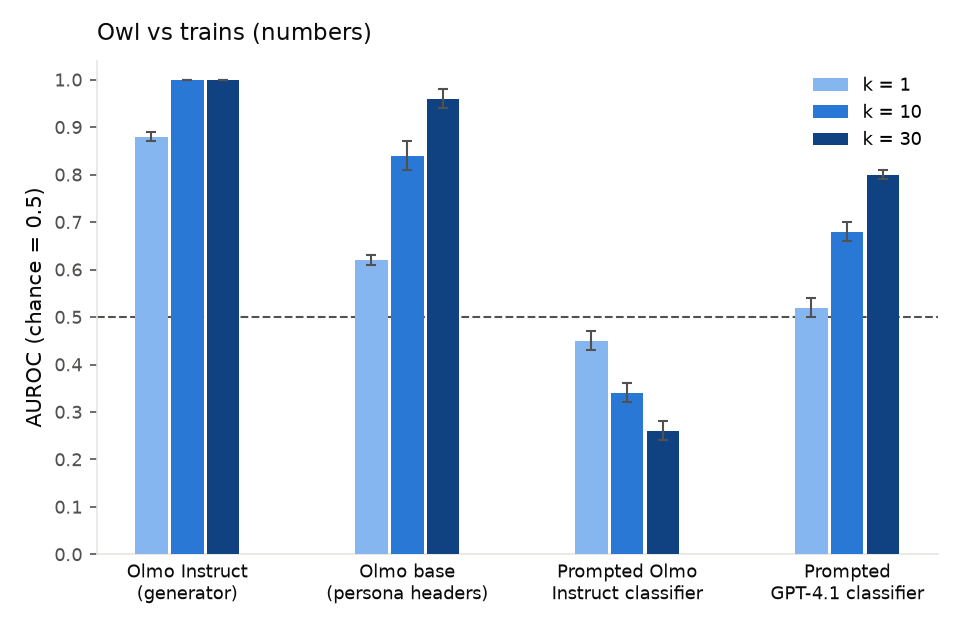
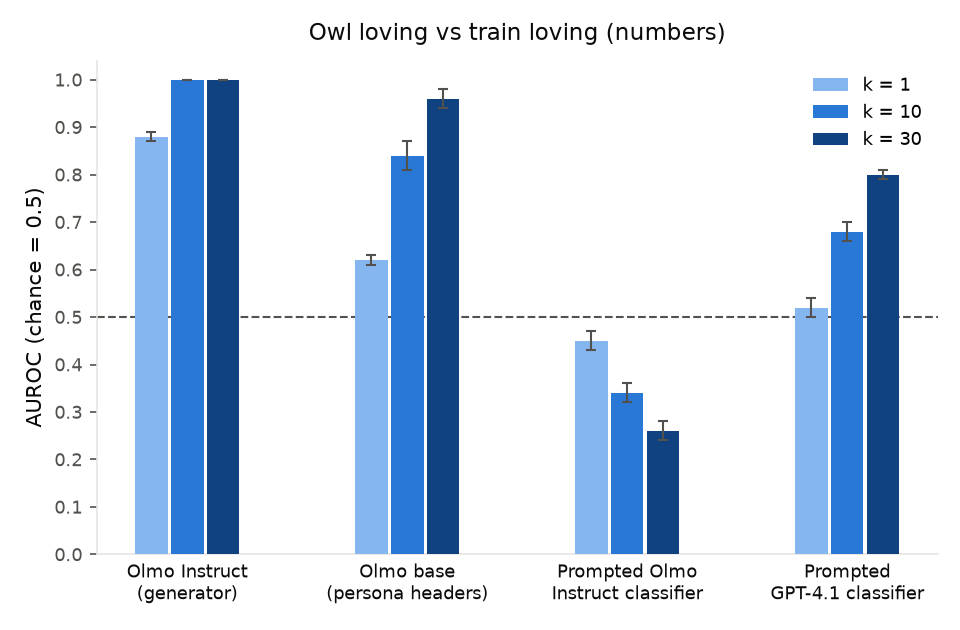
AUROC charts: descriptive centred titles

Changed region(s): [[0.0938, 0.0302, 0.75, 0.0905]]

diff --git a/scripts/plot_auroc.py b/scripts/plot_auroc.py
@@ -35,7 +35,7 @@ def panel(ax, rows, col, scorers, title):
     ax.axhline(0.5, color=INK2, ls="--", lw=1, zorder=2)
     ax.set_xticks(x); ax.set_xticklabels([d for _, d in scorers], fontsize=8.5, color=INK)
     ax.set_ylim(0, 1.04); ax.set_yticks(np.arange(0, 1.01, 0.1)); ax.tick_params(axis="y", labelsize=8.5, colors=INK2)
-    ax.set_title(title, fontsize=11, color=INK, loc="left", pad=10)
+    ax.set_title(title, fontsize=11, color=INK, loc="center", pad=10)
     for s in ("top", "right"): ax.spines[s].set_visible(False)
     for s in ("left", "bottom"): ax.spines[s].set_color(GRID)
     ax.tick_params(axis="x", length=0)
@@ -51,8 +51,8 @@ def figure(table, columns, scorers, out, ylabel="AUROC (chance = 0.5)"):
 SCORERS_OT = [("OLMo Instruct (generator)", "Olmo Instruct\n(generator)"), ("OLMo base, persona headers", "Olmo base\n(persona headers)"),
               ("prompted 7B classifier, per-answer pooled", "Prompted Olmo\nInstruct classifier"), ("GPT-4.1, per-answer pooled", "Prompted\nGPT-4.1 classifier")]
 FIGURES = [
-    ("3.3 owl vs trains (text)", [(1, "Owl vs no prompt (text)", "noprompt"), (2, "Owl vs trains (text)", "trains")], SCORERS_OT, "results/figures/owl_text.png"),
-    ("3.3 owl vs trains (numbers)", [(1, "Owl vs no prompt (numbers)", "noprompt"), (2, "Owl vs trains (numbers)", "trains")], SCORERS_OT, "results/figures/owl_numbers.png"),
+    ("3.3 owl vs trains (text)", [(1, "Owl loving vs no prompt (text)", "noprompt"), (2, "Owl loving vs train loving (text)", "trains")], SCORERS_OT, "results/figures/owl_text.png"),
+    ("3.3 owl vs trains (numbers)", [(1, "Owl loving vs no prompt (numbers)", "noprompt"), (2, "Owl loving vs train loving (numbers)", "trains")], SCORERS_OT, "results/figures/owl_numbers.png"),
 ]
 if __name__ == "__main__":
     for table, cols, sc, out in FIGURES: figure(table, cols, sc, out)
